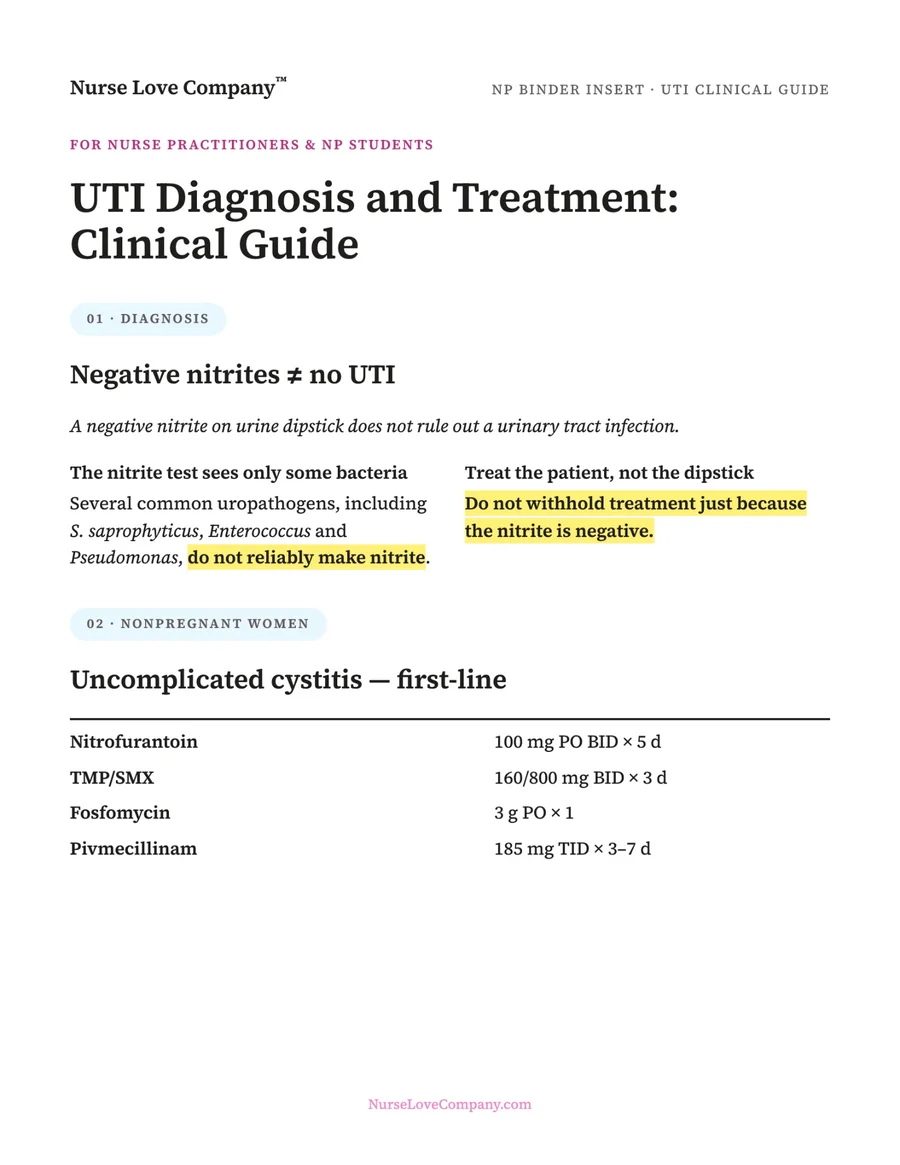
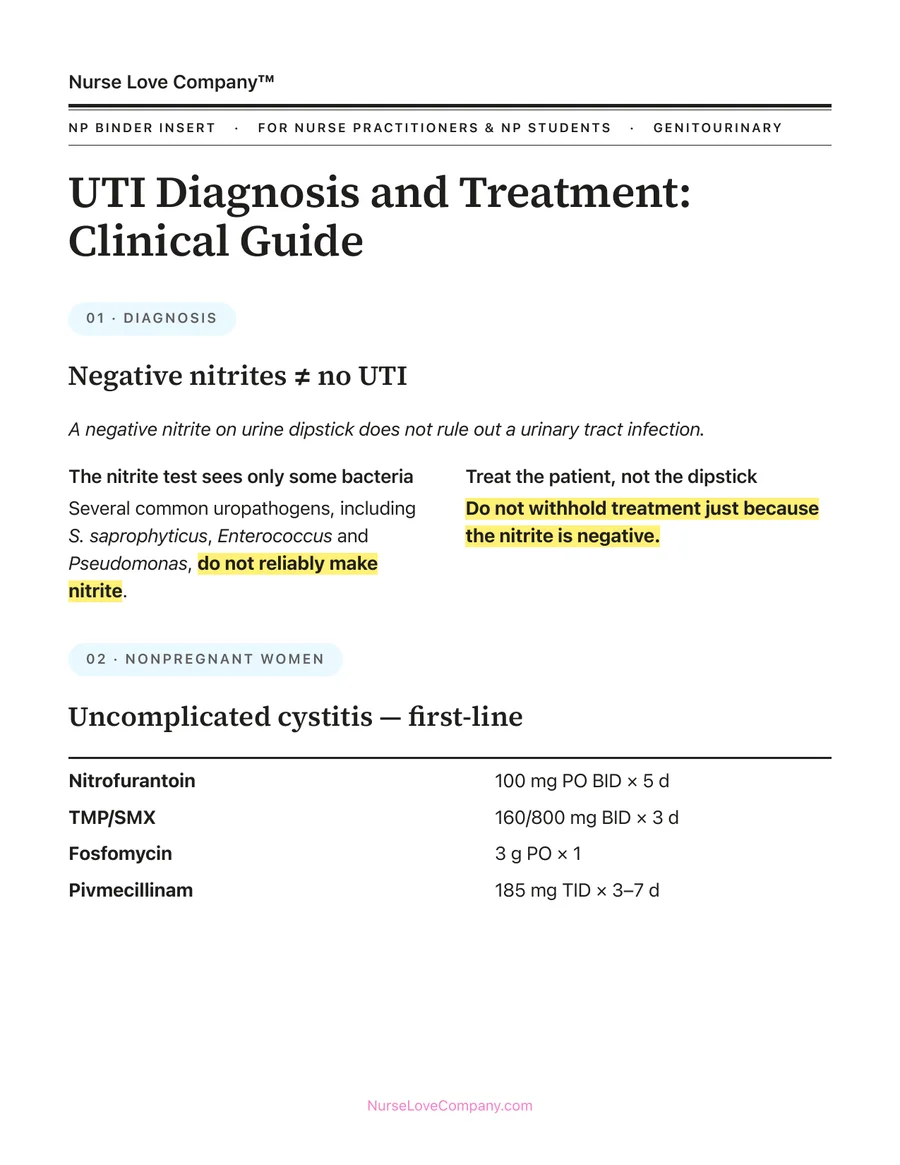
Hero: UTI guide in front, Brain Dump in the middle, Medication Tracker as placeholder
Claude-Session: https://claude.ai/code/session_0179KZJXKQgcZf7QJSFKJFFb

diff --git a/src/pages/Home.tsx b/src/pages/Home.tsx
@@ -3,9 +3,7 @@ import { freebies, getCategory } from '../data/catalog'
 import { site } from '../data/site'
 import type { CategoryId, IllustrationName } from '../data/types'
 import { Heart } from '../components/illustrations/Objects'
-import heroAsthma from '../assets/hero/asthma.webp'
 import heroUti from '../assets/hero/uti.webp'
-import heroDermatology from '../assets/hero/dermatology.webp'
 import { InsertPage } from '../components/illustrations/InsertPage'
 import { PageCluster } from '../components/illustrations/PageCluster'
 import { DigitalLabel, ShipsLabel } from '../components/Labels'
@@ -36,13 +34,13 @@ function Hero() {
   const { quiz } = useMarketing()
   return (
     <section className="hero" aria-labelledby="hero-title">
-      <div className="hero__art" role="img" aria-label="Three sample NP binder insert pages: Inhaler Pharmacotherapy for Asthma, UTI Diagnosis and Treatment, and a Visual Lesion Chart.">
+      <div className="hero__art" role="img" aria-label="Sample insert pages: a medication tracker, a brain dump page, and the UTI Diagnosis and Treatment clinical guide from the NP binder inserts.">
         <div className="hero__backdrop" />
-        <img className="hero__page hero__page--med" src={heroAsthma} alt="" width={900} height={1165} decoding="async" />
-        <img className="hero__page hero__page--dump" src={heroUti} alt="" width={900} height={1165} decoding="async" />
+        <InsertPage className="hero__page hero__page--med" title="Medication" subtitle="Tracker" layout="table" fields={['Med', 'Dose', 'Time']} />
+        <InsertPage className="hero__page hero__page--dump" title="Brain Dump" layout="lined" heart />
         {/* The front page floats gently (switched off for reduced motion). */}
         <div className="hero__tablet">
-          <img className="hero__page-img hero__front" src={heroDermatology} alt="" width={900} height={1165} decoding="async" />
+          <img className="hero__page-img hero__front" src={heroUti} alt="" width={900} height={1165} decoding="async" />
         </div>
       </div>
       <div className="container hero__inner">

diff --git a/src/pages/Home.css b/src/pages/Home.css
@@ -122,8 +122,7 @@
   top: 7%;
   transform: rotate(7deg);
 }
-/* Real insert pages: white paper with a hint of edge. */
-.hero__page,
+/* A real insert page: white paper with a hint of edge. */
 .hero__page-img {
   display: block;
   background: #fff;
